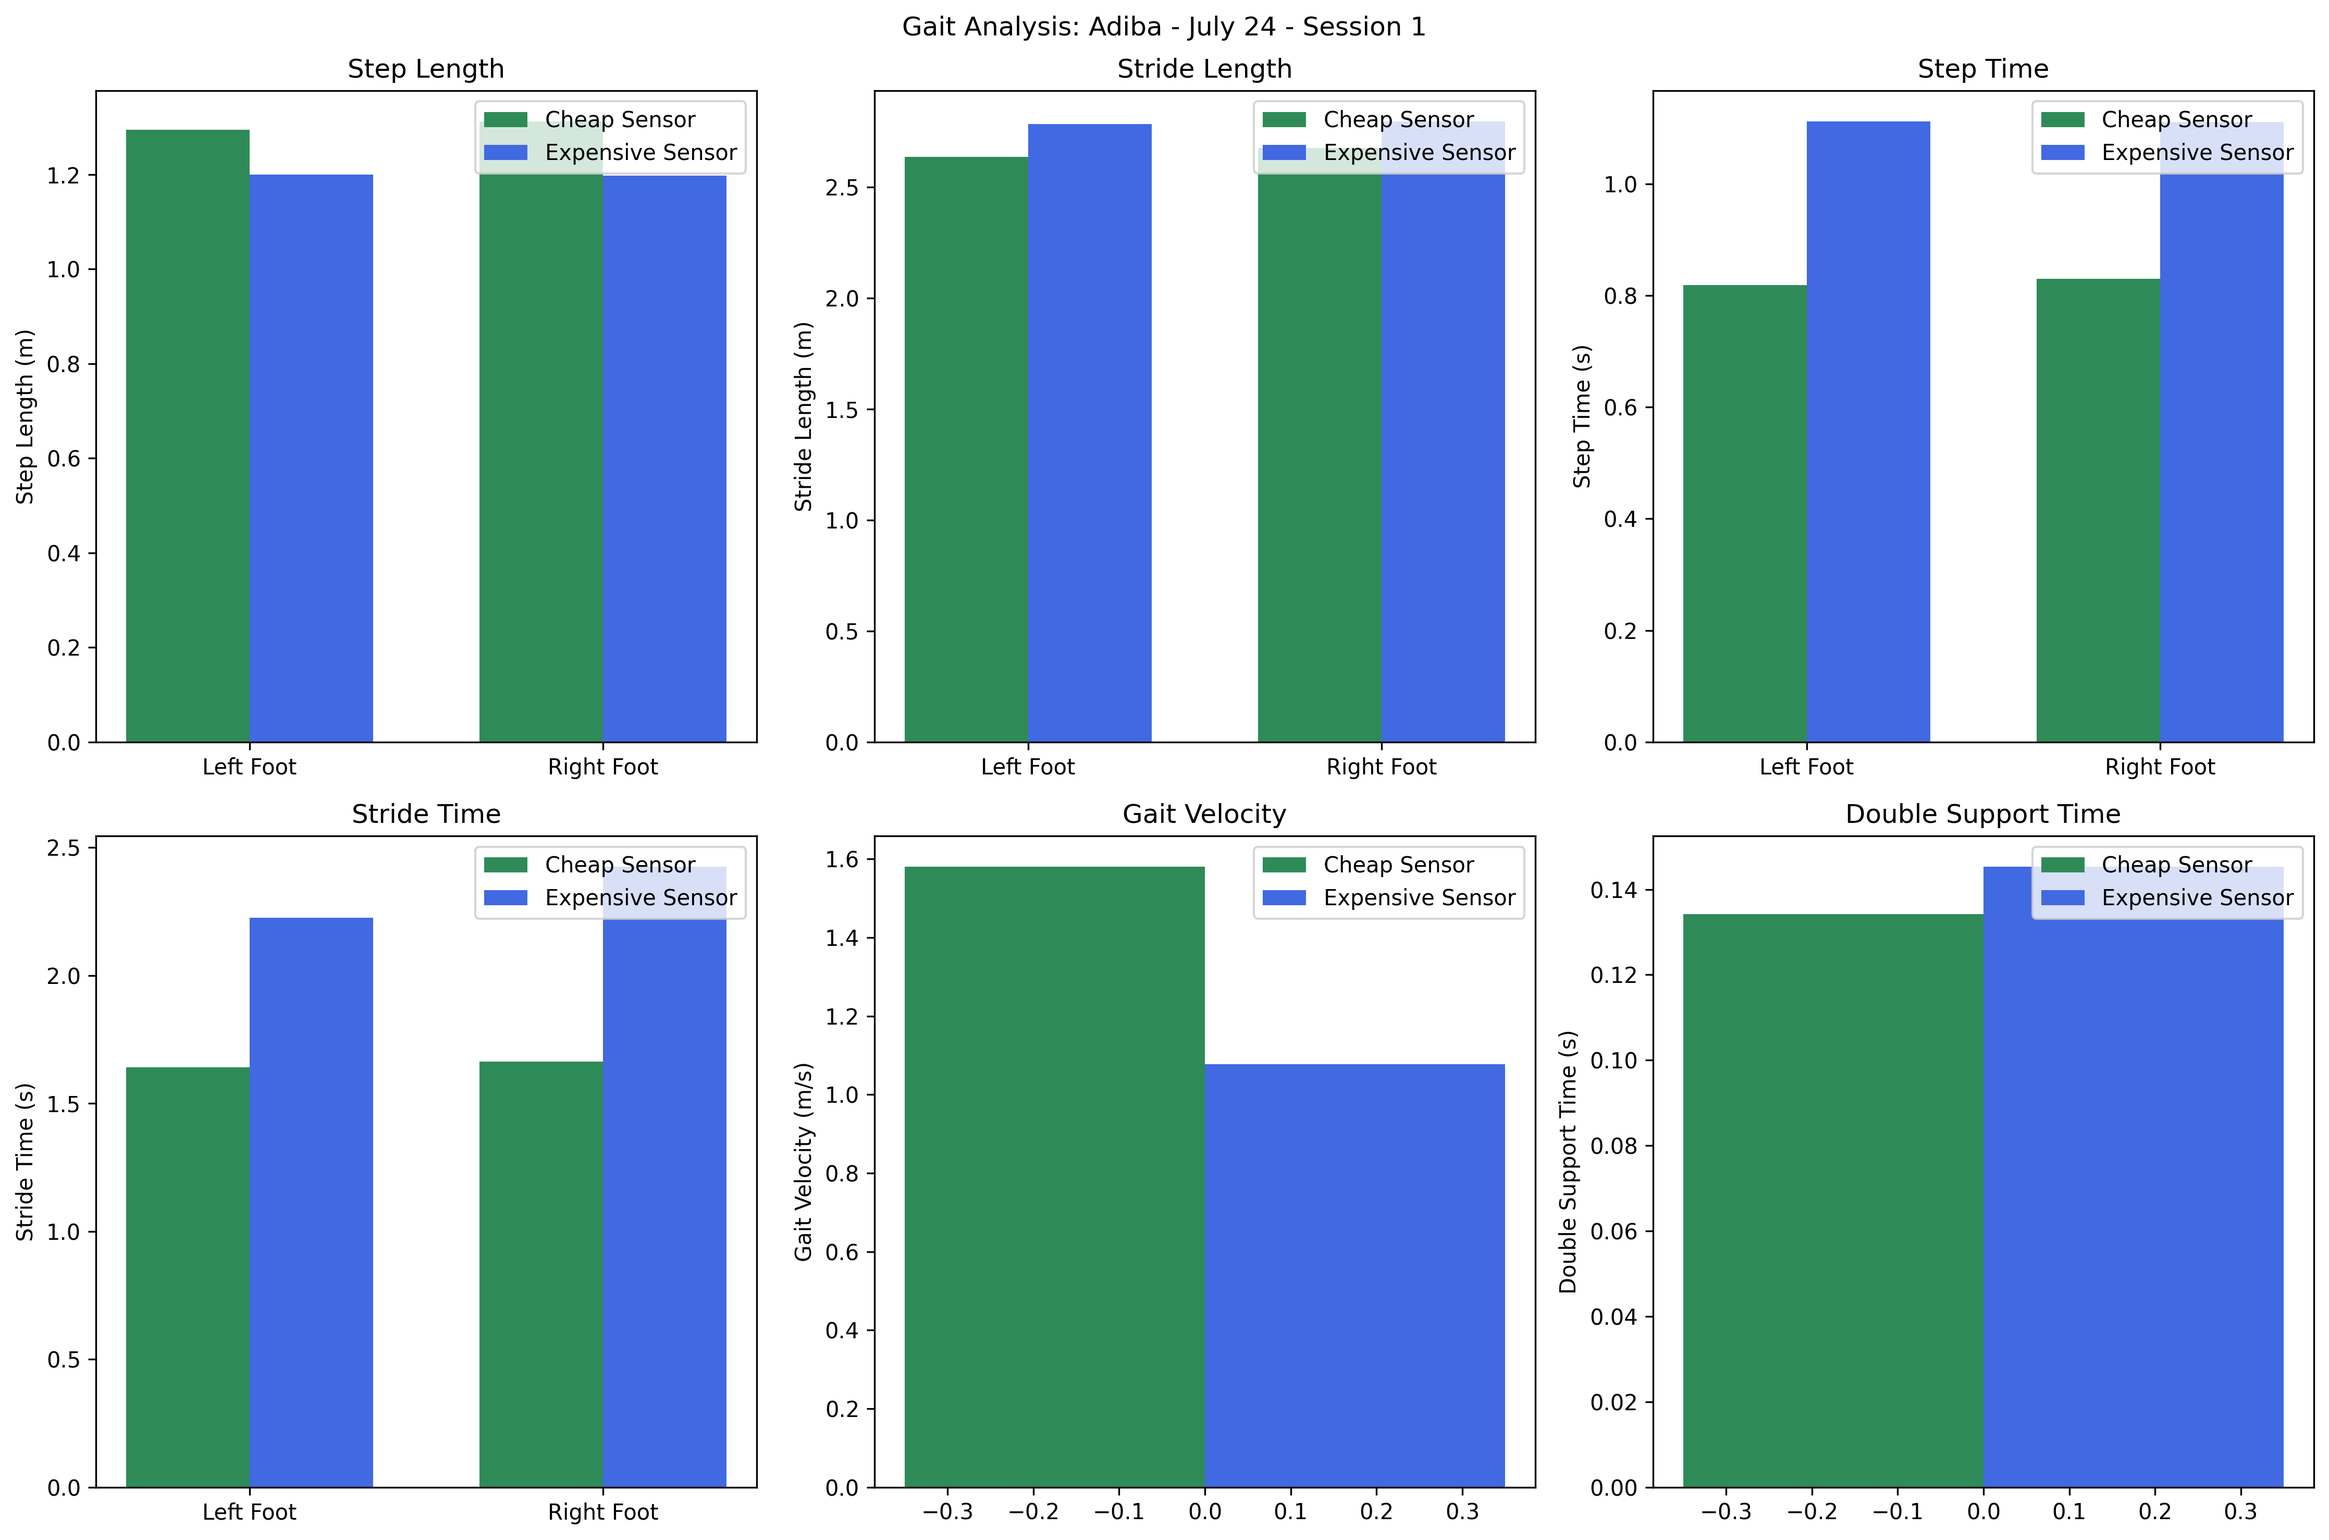
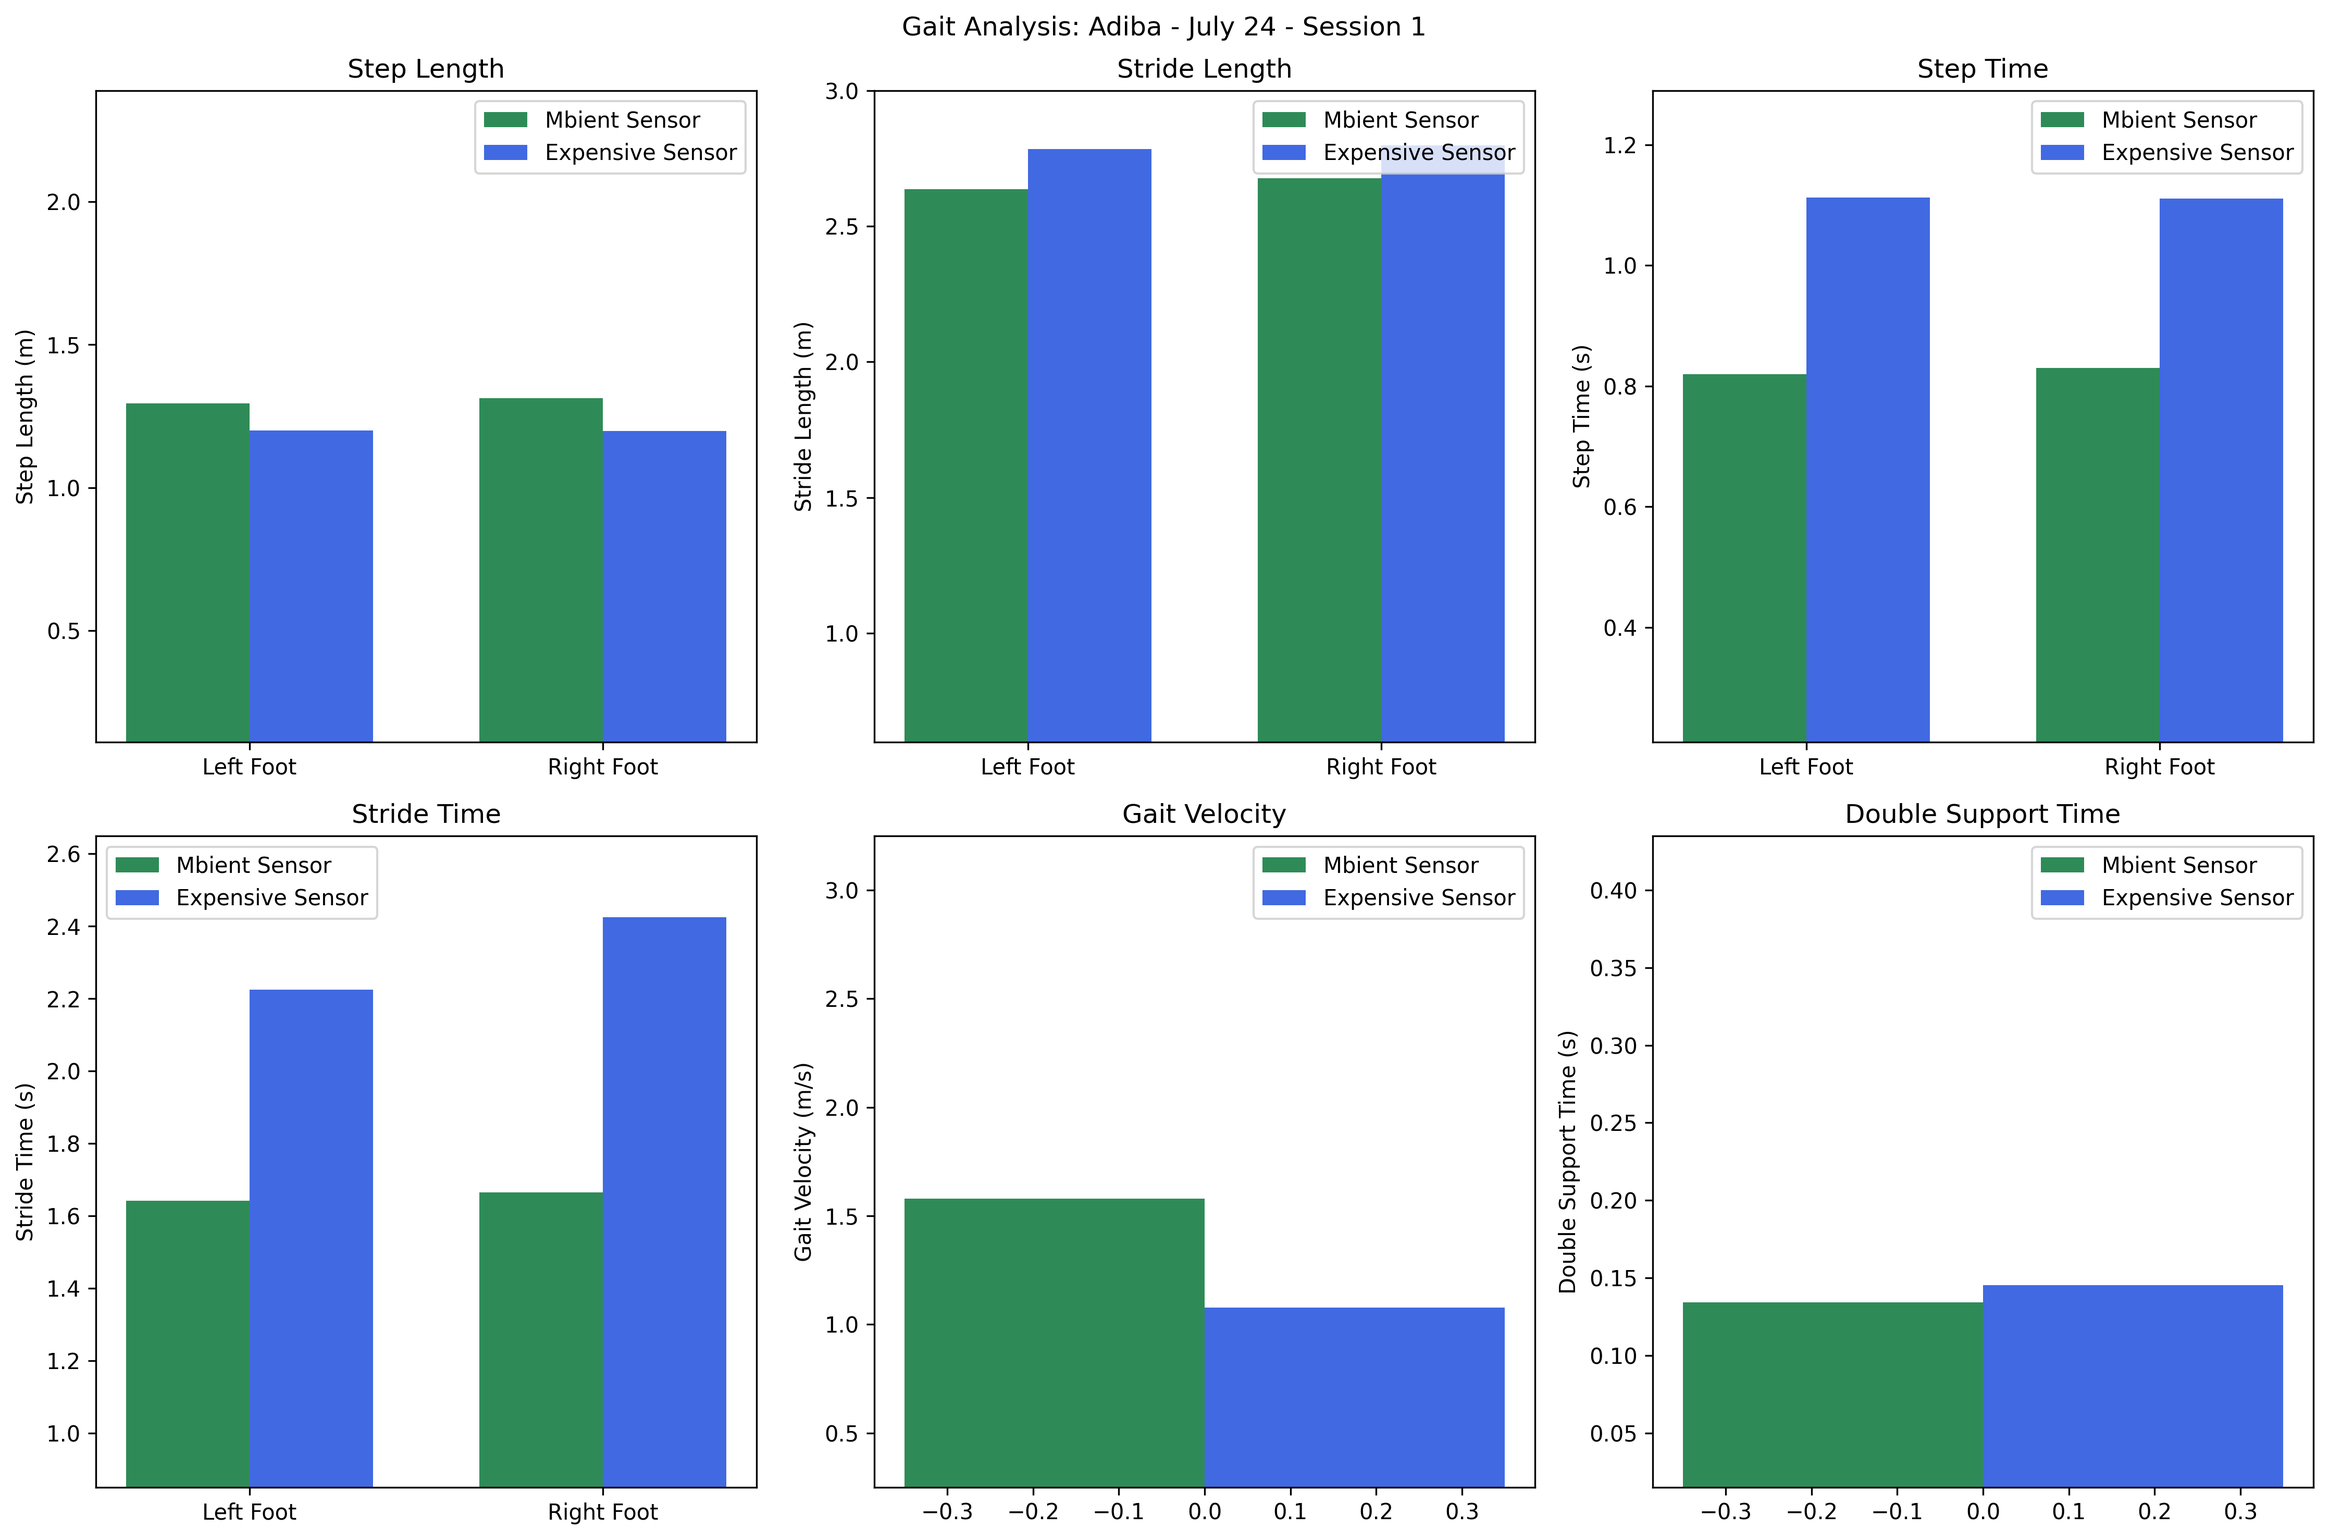
updated plots

diff --git a/Initial_Data_Collection/main_analysis.py b/Initial_Data_Collection/main_analysis.py
@@ -1021,8 +1021,120 @@ class GaitAnalyzer:
         
         return session_results
     
-    def create_session_plots(self, session_results, output_dir):
-        """Create plots for a session"""
+    def calculate_global_data_ranges(self):
+        """Calculate global min/max values across all sessions for consistent plot scaling"""
+        global_ranges = {
+            'step_length': {'min': float('inf'), 'max': float('-inf')},
+            'stride_length': {'min': float('inf'), 'max': float('-inf')},
+            'step_time': {'min': float('inf'), 'max': float('-inf')},
+            'stride_time': {'min': float('inf'), 'max': float('-inf')},
+            'gait_velocity': {'min': float('inf'), 'max': float('-inf')},
+            'double_support': {'min': float('inf'), 'max': float('-inf')}
+        }
+        
+        # Analyze all existing session files
+        session_files = list((self.results_dir / "individual_sessions").glob("*.json"))
+        
+        if not session_files:
+            # If no existing session files, return default ranges
+            return {
+                'step_length': {'min': 0.3, 'max': 2.2},
+                'stride_length': {'min': 0.8, 'max': 2.8},
+                'step_time': {'min': 0.3, 'max': 1.2},
+                'stride_time': {'min': 1.0, 'max': 2.5},
+                'gait_velocity': {'min': 0.5, 'max': 3.0},
+                'double_support': {'min': 0.05, 'max': 0.4}
+            }
+        
+        for session_file in session_files:
+            try:
+                with open(session_file, 'r') as f:
+                    session_data = json.load(f)
+                
+                # Check both sensor types
+                for sensor_type in ['cheap_sensor', 'expensive_sensor']:
+                    sensor_data = session_data.get(sensor_type, {})
+                    
+                    # Individual foot data
+                    for foot in ['left_foot', 'right_foot']:
+                        foot_data = sensor_data.get(foot, {})
+                        
+                        # Update ranges for step and stride parameters
+                        for param_type in ['step_length_stats', 'stride_length_stats', 
+                                         'step_time_stats', 'stride_time_stats']:
+                            stats = foot_data.get(param_type, {})
+                            if 'min' in stats and 'max' in stats and stats['min'] > 0:
+                                param_key = param_type.replace('_stats', '')
+                                global_ranges[param_key]['min'] = min(global_ranges[param_key]['min'], stats['min'])
+                                global_ranges[param_key]['max'] = max(global_ranges[param_key]['max'], stats['max'])
+                    
+                    # Combined data
+                    combined_data = sensor_data.get('combined', {})
+                    
+                    # Gait velocity
+                    gait_vel_stats = combined_data.get('gait_velocity_stats', {})
+                    if 'min' in gait_vel_stats and 'max' in gait_vel_stats and gait_vel_stats['min'] > 0:
+                        global_ranges['gait_velocity']['min'] = min(global_ranges['gait_velocity']['min'], gait_vel_stats['min'])
+                        global_ranges['gait_velocity']['max'] = max(global_ranges['gait_velocity']['max'], gait_vel_stats['max'])
+                    
+                    # Double support time
+                    ds_stats = combined_data.get('double_support_stats', {})
+                    if 'min' in ds_stats and 'max' in ds_stats and ds_stats['min'] > 0:
+                        global_ranges['double_support']['min'] = min(global_ranges['double_support']['min'], ds_stats['min'])
+                        global_ranges['double_support']['max'] = max(global_ranges['double_support']['max'], ds_stats['max'])
+            
+            except Exception as e:
+                print(f"Warning: Error reading session file {session_file}: {e}")
+                continue
+        
+        # Replace infinite values with defaults if no valid data found
+        defaults = {
+            'step_length': {'min': 0.3, 'max': 2.2},
+            'stride_length': {'min': 0.8, 'max': 2.8},
+            'step_time': {'min': 0.3, 'max': 1.2},
+            'stride_time': {'min': 1.0, 'max': 2.5},
+            'gait_velocity': {'min': 0.5, 'max': 3.0},
+            'double_support': {'min': 0.05, 'max': 0.4}
+        }
+        
+        for param, ranges in global_ranges.items():
+            if ranges['min'] == float('inf') or ranges['max'] == float('-inf'):
+                global_ranges[param] = defaults[param]
+        
+        return global_ranges
+    
+    def get_plot_y_limits(self, param_type, global_ranges):
+        """Get consistent Y-axis limits for a specific parameter type"""
+        param_mapping = {
+            'step_length_stats': 'step_length',
+            'stride_length_stats': 'stride_length',
+            'step_time_stats': 'step_time',
+            'stride_time_stats': 'stride_time',
+            'gait_velocity_stats': 'gait_velocity',
+            'double_support_stats': 'double_support'
+        }
+        
+        param_key = param_mapping.get(param_type, param_type.replace('_stats', ''))
+        
+        if param_key in global_ranges:
+            min_val = global_ranges[param_key]['min']
+            max_val = global_ranges[param_key]['max']
+            
+            # Add 10% padding for visual clarity
+            padding = (max_val - min_val) * 0.1
+            y_min = max(0, min_val - padding)  # Don't go below 0
+            y_max = max_val + padding
+            
+            return y_min, y_max
+        
+        # Fallback defaults
+        return 0, 1
+
+    def create_session_plots(self, session_results, output_dir, global_ranges=None):
+        """Create plots for a session with consistent Y-axis scaling"""
+        if global_ranges is None:
+            global_ranges = self.calculate_global_data_ranges()
+        
         fig, axes = plt.subplots(2, 3, figsize=(15, 10))
         fig.suptitle(f"Gait Analysis: {session_results['metadata']['participant']} - "
                     f"{session_results['metadata']['date']} - Session {session_results['metadata']['session']}")
@@ -1084,9 +1196,13 @@ class GaitAnalyzer:
             width = 0.35
             
             if cheap_data:
-                ax.bar(x - width/2, cheap_data, width, label='Cheap Sensor', color=config.COLORS['cheap'])
+                ax.bar(x - width/2, cheap_data, width, label='Mbient Sensor', color=config.COLORS['cheap'])
             if expensive_data:
                 ax.bar(x + width/2, expensive_data, width, label='Expensive Sensor', color=config.COLORS['expensive'])
+            
+            # Set consistent Y-axis limits
+            y_min, y_max = self.get_plot_y_limits(stat_key, global_ranges)
+            ax.set_ylim(y_min, y_max)
             
             ax.set_title(title)
             ax.set_ylabel(f'{title} ({unit})')
@@ -1099,7 +1215,7 @@ class GaitAnalyzer:
         plt.tight_layout()
         return fig
     
-    def save_session_results(self, session_results):
+    def save_session_results(self, session_results, global_ranges=None):
         """Save individual session results"""
         participant = session_results['metadata']['participant']
         date = session_results['metadata']['date']
@@ -1113,9 +1229,11 @@ class GaitAnalyzer:
         with open(filepath, 'w') as f:
             json.dump(session_results, f, indent=2, default=str)
         
-        # Create and save plots
+        # Create and save plots with consistent scaling
         try:
-            fig = self.create_session_plots(session_results, self.results_dir / "plots")
+            if global_ranges is None:
+                global_ranges = self.calculate_global_data_ranges()
+            fig = self.create_session_plots(session_results, self.results_dir / "plots", global_ranges)
             plot_filename = f"{participant}_{date.replace(' ', '_')}_Session_{session}_plots.png"
             plot_filepath = self.results_dir / "plots" / plot_filename
             fig.savefig(plot_filepath, dpi=config.DPI, bbox_inches='tight')
@@ -1216,21 +1334,24 @@ class GaitAnalyzer:
         return summary
     
     def create_summary_plots(self, summary):
-        """Create summary plots across all participants"""
+        """Create summary plots across all participants with consistent Y-axis scaling"""
+        # Calculate global ranges for consistent scaling
+        global_ranges = self.calculate_global_data_ranges()
+        
         # Overall statistics plot
         fig, axes = plt.subplots(2, 3, figsize=(18, 12))
         fig.suptitle("Overall Gait Analysis Summary - All Participants")
         
         plot_data = [
-            ('Step Length', 'step_lengths', 'm'),
-            ('Stride Length', 'stride_lengths', 'm'), 
-            ('Step Time', 'step_times', 's'),
-            ('Stride Time', 'stride_times', 's'),
-            ('Gait Velocity', 'gait_velocities', 'm/s'),
-            ('Double Support Time', 'double_support_times', 's')
+            ('Step Length', 'step_lengths', 'm', 'step_length_stats'),
+            ('Stride Length', 'stride_lengths', 'm', 'stride_length_stats'), 
+            ('Step Time', 'step_times', 's', 'step_time_stats'),
+            ('Stride Time', 'stride_times', 's', 'stride_time_stats'),
+            ('Gait Velocity', 'gait_velocities', 'm/s', 'gait_velocity_stats'),
+            ('Double Support Time', 'double_support_times', 's', 'double_support_stats')
         ]
         
-        for idx, (title, param, unit) in enumerate(plot_data):
+        for idx, (title, param, unit, stat_key) in enumerate(plot_data):
             row, col = idx // 3, idx % 3
             ax = axes[row, col]
             
@@ -1240,7 +1361,18 @@ class GaitAnalyzer:
                 values = [stats['mean'] - stats['std'], stats['mean'], stats['mean'] + stats['std']]
                 ax.bar(['Mean-SD', 'Mean', 'Mean+SD'], values, 
                        color=['lightblue', 'blue', 'lightblue'])
+                
+                # Set consistent Y-axis limits
+                y_min, y_max = self.get_plot_y_limits(stat_key, global_ranges)
+                ax.set_ylim(y_min, y_max)
+                
                 ax.set_title(f"{title}\nMean: {stats['mean']:.3f} ± {stats['std']:.3f} {unit}")
+                ax.set_ylabel(f"{title} ({unit})")
+            else:
+                # If no data, still set consistent limits and show empty plot
+                y_min, y_max = self.get_plot_y_limits(stat_key, global_ranges)
+                ax.set_ylim(y_min, y_max)
+                ax.set_title(f"{title}\nNo data available")
                 ax.set_ylabel(f"{title} ({unit})")
         
         plt.tight_layout()
@@ -1259,6 +1391,10 @@ class GaitAnalyzer:
         ax.set_ylabel("Gait Velocity (m/s)")
         ax.set_xlabel("Participant")
         
+        # Set consistent Y-axis limits for gait velocity
+        y_min, y_max = self.get_plot_y_limits('gait_velocity_stats', global_ranges)
+        ax.set_ylim(y_min, y_max)
+        
         # Add value labels on bars
         for bar, vel in zip(bars, gait_velocities):
             if vel > 0:
@@ -1272,6 +1408,9 @@ class GaitAnalyzer:
         plt.close(fig)
         
         print(f"Summary plots saved: {plot_file.name} and {participant_plot_file.name}")
+        print(f"Global ranges used for consistent scaling:")
+        for param, ranges in global_ranges.items():
+            print(f"  {param}: {ranges['min']:.3f} - {ranges['max']:.3f}")
     
     def run_complete_analysis(self):
         """Run complete analysis on all matching sessions"""
@@ -1289,11 +1428,18 @@ class GaitAnalyzer:
             print("No matching sessions found!")
             return
         
+        # Calculate global data ranges for consistent plot scaling
+        print("Calculating global data ranges for consistent plot scaling...")
+        global_ranges = self.calculate_global_data_ranges()
+        print("Global ranges calculated:")
+        for param, ranges in global_ranges.items():
+            print(f"  {param}: {ranges['min']:.3f} - {ranges['max']:.3f}")
+        
         # Process each session
         for session_info in matching_sessions:
             try:
                 session_results = self.analyze_session(session_info)
-                result_file = self.save_session_results(session_results)
+                result_file = self.save_session_results(session_results, global_ranges)
                 self.processed_sessions.append(result_file)
             except Exception as e:
                 print(f"  Error processing session: {e}")
@@ -1309,6 +1455,7 @@ class GaitAnalyzer:
             print(f"Individual session results: {self.results_dir / 'individual_sessions'}")
             print(f"Plots: {self.results_dir / 'plots'}")
             print(f"Summary: {self.results_dir / 'summary'}")
+            print("\nAll plots now use consistent Y-axis scales for proper comparison across users!")
         else:
             print("No sessions were successfully processed!")
 
